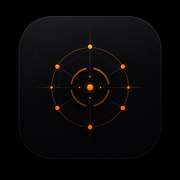
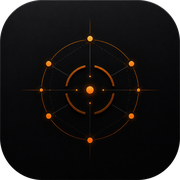
PWA手機推播+自訂圖標 v184.30

diff --git a/sw.js b/sw.js
@@ -1,0 +1,75 @@
+/* GLOBALPULSE Service Worker — v1
+ *
+ * 目的:讓手機收到「顯示 GLOBALPULSE 名稱 + 圖標」的原生通知。
+ *
+ * 兩種通知路徑:
+ *   1. 網站開著時 → 頁面直接呼叫 showNotification(經由這個 SW,才會帶 App 身分)
+ *   2. 網站關閉時 → 伺服器 Web Push 喚醒這個 SW → 自行抓最新情報 → 顯示通知
+ *
+ * 注意:iOS 必須「加入主畫面」後開啟該 App,推播才會運作(Apple 的限制)。
+ */
+
+const SW_VERSION = 'gp-sw-v1';
+const WORKER = 'https://ais-proxy.2syzkjy2vq.workers.dev';
+
+self.addEventListener('install', e => { self.skipWaiting(); });
+self.addEventListener('activate', e => { e.waitUntil(self.clients.claim()); });
+
+// ── 收到伺服器推播 ────────────────────────────────────────────────
+// 無酬載(payload)時自行去抓最新情報 — 這樣伺服器端不必做複雜的推播加密。
+self.addEventListener('push', event => {
+  event.waitUntil((async () => {
+    let title = 'GLOBALPULSE';
+    let body = '有新的情報更新';
+    let tag = 'gp-push';
+
+    // 若推播本身帶了內容就直接用
+    try {
+      if (event.data) {
+        const d = event.data.json();
+        title = d.title || title;
+        body = d.body || body;
+        tag = d.tag || tag;
+      }
+    } catch (e) {
+      try { const t = event.data && event.data.text(); if (t) body = t; } catch (e2) {}
+    }
+
+    await self.registration.showNotification(title, {
+      body: body,
+      icon: '/icon-192.png',
+      badge: '/icon-192.png',
+      tag: tag,
+      renotify: true,
+      data: { url: '/' },
+    });
+  })());
+});
+
+// ── 點擊通知 → 開啟/聚焦網站 ──────────────────────────────────────
+self.addEventListener('notificationclick', event => {
+  event.notification.close();
+  const url = (event.notification.data && event.notification.data.url) || '/';
+  event.waitUntil((async () => {
+    const all = await self.clients.matchAll({ type: 'window', includeUncontrolled: true });
+    for (const c of all) {
+      if ('focus' in c) return c.focus();
+    }
+    if (self.clients.openWindow) return self.clients.openWindow(url);
+  })());
+});
+
+// ── 頁面請 SW 代為顯示通知(這樣才會帶 App 名稱與圖標)────────────
+self.addEventListener('message', event => {
+  const d = event.data || {};
+  if (d.type === 'GP_NOTIFY') {
+    self.registration.showNotification(d.title || 'GLOBALPULSE', {
+      body: d.body || '',
+      icon: '/icon-192.png',
+      badge: '/icon-192.png',
+      tag: d.tag || 'gp',
+      renotify: true,
+      data: { url: '/' },
+    });
+  }
+});

diff --git a/index.html b/index.html
@@ -3211,7 +3211,7 @@ window.L_DISABLE_3D = true;
         <div class="boot-sub">Geopolitical &middot; Financial &middot; Maritime Intelligence Terminal</div>
       </div>
       <div class="boot-meta">
-        <div>BUILD <b>v184.29</b></div>
+        <div>BUILD <b>v184.30</b></div>
         <div>NODE <b id="bootNode">XX-XX-XX</b></div>
         <div>UTC <b id="bootUTC">00:00:00</b></div>
       </div>
@@ -35692,12 +35692,10 @@ setRoute((location.hash.replace('#/', '') || 'geo'));
       if (!('Notification' in window) || Notification.permission !== 'granted') return;
       const curStr = fmtVal(cur, n.ifSource, n.ifField);
       if (window.__notifSound) window.__notifSound('node');   // v184.29: 播放使用者選的音效
-      new Notification('▲ ' + (n.title || '節點觸發'), {
-        body: 'IF ' + n.ifKey + ' ' + n.ifOp + ' ' + fmtVal(n.ifValue, n.ifSource, n.ifField)
-          + '(現值 ' + curStr + ')\n' + (n.thenAction || ''),
-        tag: 'gpnode-' + n.id,   // 同節點只保留最新一則
-        icon: '/favicon.ico',
-      });
+      // v184.30: 走 SW 發送 → 手機顯示 GLOBALPULSE 名稱+圖標
+      const _b = 'IF ' + n.ifKey + ' ' + n.ifOp + ' ' + fmtVal(n.ifValue, n.ifSource, n.ifField)
+        + '(現值 ' + curStr + ')\n' + (n.thenAction || '');
+      if (window.__gpNotify) window.__gpNotify('▲ ' + (n.title || '節點觸發'), _b, 'gpnode-' + n.id);
     } catch (e) {}
   }
   // 背景評估:不管在哪一頁都跑,每 20 秒掃一次所有啟用的節點
@@ -36346,6 +36344,28 @@ window.fmtHHMM = function(date) {
     let sPrefs = (() => { try { return Object.assign({ _vol: 0.5 }, SOUND_DEFAULTS, JSON.parse(localStorage.getItem(SKEY) || '{}')); } catch (e) { return Object.assign({ _vol: 0.5 }, SOUND_DEFAULTS); } })();
     const sSave = () => { try { localStorage.setItem(SKEY, JSON.stringify(sPrefs)); } catch (e) {} };
     let _ac = null;
+    // ===== v184.30: PWA 推播 — 讓手機通知顯示「GLOBALPULSE + 網站圖標」=====
+    // 一般 new Notification() 在手機上會顯示瀏覽器名稱;必須透過 Service Worker
+    // 的 showNotification() 才會帶 App 身分(名稱/圖標)。iOS 需先「加入主畫面」。
+    let _swReg = null;
+    if ('serviceWorker' in navigator) {
+      navigator.serviceWorker.register('/sw.js').then(r => { _swReg = r; })
+        .catch(e => console.warn('[PWA] SW 註冊失敗', e));
+    }
+    // 統一的通知發送:優先走 SW(帶品牌),退回一般 Notification
+    window.__gpNotify = function (title, body, tag) {
+      try {
+        if (typeof Notification === 'undefined' || Notification.permission !== 'granted') return;
+        if (_swReg && _swReg.showNotification) {
+          _swReg.showNotification(title, {
+            body: body || '', icon: '/icon-192.png', badge: '/icon-192.png',
+            tag: tag || 'gp', renotify: true, data: { url: '/' },
+          });
+          return;
+        }
+        new Notification(title, { body: body || '', icon: '/icon-192.png', tag: tag || 'gp' });
+      } catch (e) {}
+    };
     function playSound(key, volOverride) {
       const def = SOUNDS[key]; if (!def || !def.seq.length) return;
       try {
@@ -36441,10 +36461,10 @@ window.fmtHHMM = function(date) {
     document.addEventListener('click', e => {
       if (e.target.id === 'notifPermBtn') {
         if (typeof Notification === 'undefined') { alert('此瀏覽器不支援桌面通知'); return; }
-        Notification.requestPermission().then(p => { permBadge(); if (p === 'granted') new Notification('GLOBALPULSE', { body: '通知已開啟' }); });
+        Notification.requestPermission().then(p => { permBadge(); if (p === 'granted') window.__gpNotify('GLOBALPULSE', '通知已開啟', 'gp-perm'); });
       }
       if (e.target.id === 'notifTestBtn') {
-        if (typeof Notification !== 'undefined' && Notification.permission === 'granted') { new Notification('◆ 測試通知', { body: '如果你看到這則,通知運作正常 ✅' }); playSound(sPrefs.telegram || 'chime'); }
+        if (typeof Notification !== 'undefined' && Notification.permission === 'granted') { window.__gpNotify('◆ 測試通知', '如果你看到這則,通知運作正常 ✅', 'gp-test'); playSound(sPrefs.telegram || 'chime'); }
         else alert('請先按「允許瀏覽器通知」');
       }
     });
@@ -36470,7 +36490,7 @@ window.fmtHHMM = function(date) {
         fresh.slice(0, 3).reverse().forEach(m => {
           try {
             const body = (m.zh || m.text || '').slice(0, 140);
-            new Notification('◆ ' + (m.chName || '地緣情報'), { body: body, tag: 'gptg-' + _tgKey(m), icon: '/favicon.ico' });
+            window.__gpNotify('◆ ' + (m.chName || '地緣情報'), body, 'gptg-' + _tgKey(m));
             playSound(sPrefs.telegram || 'none');
           } catch (e) {}
         });